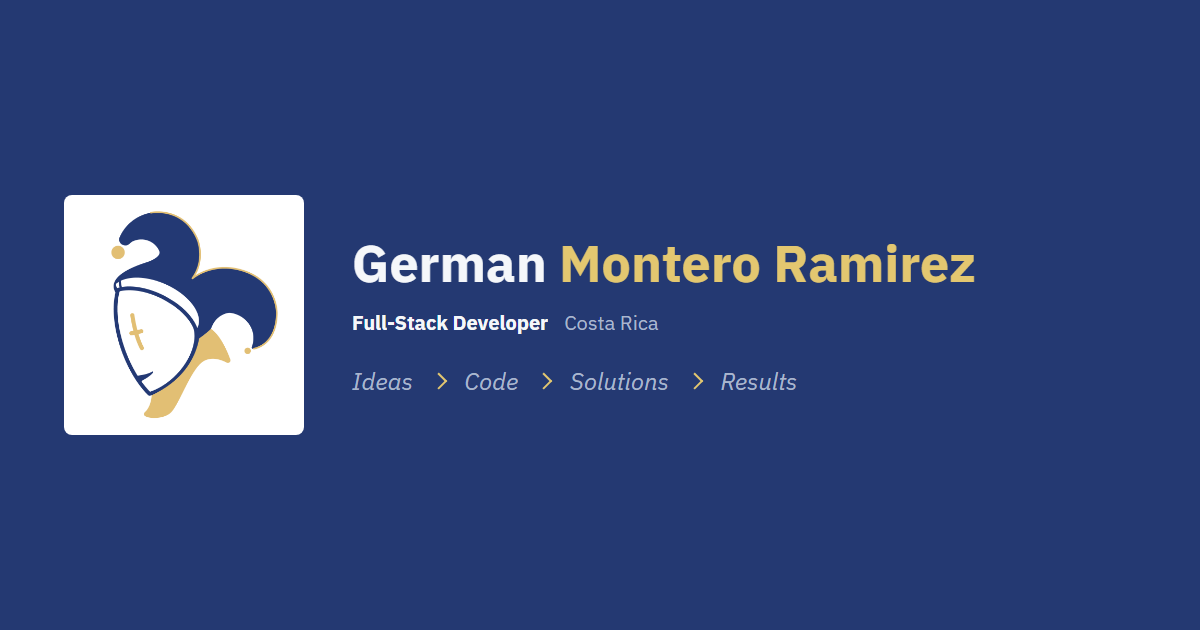
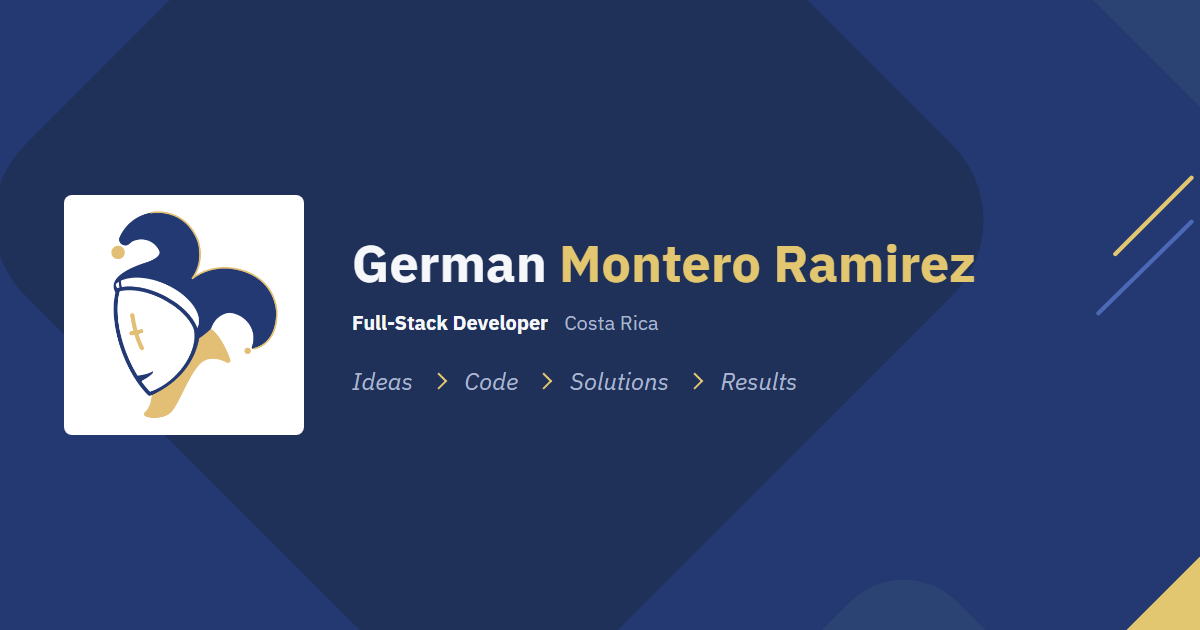
feat(og-cover): the hero band behind the social cards (spec 036)
The generator imports the hero's shape definition and draws it behind the
avatar and the text, each --band-* alias resolved to its dark value through
the dark sheet. Anchored to the right edge (xMaxYMid), since the card's 1.9:1
would otherwise crop away the gold tile and the diagonals. The cards' text
clears 4.5:1 over the shapes, measured pixel by pixel through the shared check;
both PNGs regenerated, two runs byte-identical.

diff --git a/scripts/og-cover.ts b/scripts/og-cover.ts
@@ -10,6 +10,7 @@ import path from 'node:path';
 import { fileURLToPath } from 'node:url';
 
 import { ABOUT } from '../src/data/about.ts';
+import { HERO_SHAPES, HERO_BOX, TILE_RADIUS } from '../src/data/heroShapes.ts';
 
 /** The card's own padding. The sheet's spacing scale has no step for a 1200px
  *  canvas, and a token invented for one file would be a second source. */
@@ -49,6 +50,8 @@ export interface Readings {
     tokens: Record<string, string | undefined>;
     /** The dark theme's tokens the card draws, verbatim from `themes/dark.css`, same contract. */
     darkTokens: Record<string, string | undefined>;
+    /** The hero band's tokens (spec 036), each alias resolved to its dark value. */
+    band: Record<string, string | undefined>;
     /** Root-absolute paths the font sheet names, read from it and not listed here. */
     fonts: string[];
     /**
@@ -234,10 +237,19 @@ export function readTokens(sheetDir: string): Readings {
     const darkTokens: Record<string, string | undefined> = {};
     for (const name of DARK_TOKENS) darkTokens[name] = dark[name];
     const contentWidthPx = 1200 - CARD_PADDING_PX * 2;
+    // A band token is an alias (`var(--neutral-50)`): followed through the dark sheet, then the base.
+    const resolve = (name: string): string | undefined => {
+        let v = dark[name] ?? sheet[name];
+        for (let m; v && (m = v.match(/^var\((--[\w-]+)\)$/)); ) v = dark[m[1]] ?? sheet[m[1]];
+        return v;
+    };
+    const band: Record<string, string | undefined> = {};
+    for (const shape of HERO_SHAPES) { const name = 'side' in shape ? shape.fill : shape.stroke; band[name] = resolve(name); }
 
     return {
         tokens,
         darkTokens,
+        band,
         fonts,
         // The names stay here: this is the only place that knows which value is
         // drawn over which, so a caller cannot pair two colours the card never
@@ -352,6 +364,11 @@ export function cardHtml(readings: Readings, phrases: string[], fitSizePx: numbe
         })
         .join('\n');
     const family = content.family ? ` <span class="family">${escapeHtml(content.family)}</span>` : '';
+    // Anchored right (xMaxYMid): the card is 1.9:1 against the band's 2.69:1, and the right edge
+    // carries the gold tile and the diagonals (spec 036).
+    const band = HERO_SHAPES.map((sh) => 'side' in sh
+        ? `<rect x="${sh.cx - sh.side / 2}" y="${sh.cy - sh.side / 2}" width="${sh.side}" height="${sh.side}" rx="${sh.side * TILE_RADIUS}" transform="rotate(45 ${sh.cx} ${sh.cy})" fill="${readings.band[sh.fill]}"/>`
+        : `<line x1="${sh.from[0]}" y1="${sh.from[1]}" x2="${sh.to[0]}" y2="${sh.to[1]}" stroke="${readings.band[sh.stroke]}" stroke-width="5" stroke-linecap="round"/>`).join('');
 
     return `<!doctype html>
 <html>
@@ -359,7 +376,10 @@ export function cardHtml(readings: Readings, phrases: string[], fitSizePx: numbe
 <meta charset="utf-8">
 <style>
 ${fontFaces}
+.band { position: absolute; inset: 0; width: 100%; height: 100%; }
+.avatar, .text { position: relative; }
 body {
+    position: relative;
     margin: 0;
     width: ${geometry.widthPx}px;
     height: ${geometry.heightPx}px;
@@ -423,6 +443,7 @@ body {
 </style>
 </head>
 <body>
+<svg class="band" viewBox="0 0 ${HERO_BOX.width} ${HERO_BOX.height}" preserveAspectRatio="xMaxYMid slice" aria-hidden="true">${band}</svg>
 <img class="avatar" src="${avatarDataUrl}" alt="">
 <div class="text">
 <h1 class="name"><span class="given">${escapeHtml(content.given)}</span>${family}</h1>
@@ -435,8 +456,8 @@ body {
 
 /** Validate that every required token is present and non-empty (state 4). */
 function validateTokens(readings: Readings): void {
-    for (const name of [...DRAWN_TOKENS, ...DARK_TOKENS]) {
-        const value = readings.tokens[name] ?? readings.darkTokens[name];
+    for (const name of [...DRAWN_TOKENS, ...DARK_TOKENS, ...Object.keys(readings.band)]) {
+        const value = readings.tokens[name] ?? readings.darkTokens[name] ?? readings.band[name];
         if (typeof value !== 'string' || value.trim() === '') {
             throw new Error(`Required token ${name} is missing or empty in 00-tokens.css or themes/dark.css`);
         }

diff --git a/e2e/og-cover-layout.spec.ts b/e2e/og-cover-layout.spec.ts
@@ -2,6 +2,7 @@ import { test, expect } from '@playwright/test';
 import fs from 'fs';
 import path from 'path';
 import { E2E_URL } from './helpers/server';
+import { worstOverBackground } from './helpers/pixels';
 import { readTokens, cardHtml, phrasesFor, cardLocales } from '../scripts/og-cover.ts';
 
 // Spec 033: the social card laid out like the hero (RF-1, RF-2, RF-4), checked on the generator's
@@ -51,6 +52,17 @@ for (const locale of cardLocales(LOCALES_DIR)) {
         // AGENTS: IBM Plex Sans, never the fallback (every card before spec 033 drew in Segoe UI).
         if (!r.fonts.includes('normal loaded') || !r.fonts.includes('italic loaded')) offenders.push(`fonts: ${r.fonts.join(', ')}`);
         if (r.phrases.length !== 4 || r.phrases.some((s) => s !== 'italic')) offenders.push(`RF-4: phrases ${JSON.stringify(r.phrases)}`);
+        expect(offenders, offenders.join('\n')).toEqual([]);
+    });
+
+    test(`card text clears 4.5:1 over the band — ${locale} (spec 036 RF-4)`, async ({ page }) => {
+        await page.setViewportSize({ width: readings.geometry.widthPx, height: readings.geometry.heightPx });
[1 lines of base64/hex data omitted]
+        await page.setContent(cardHtml(readings, phrasesFor(locale, LOCALES_DIR), readings.type.baseSizePx, PUBLIC, avatar), { waitUntil: 'load' });
+        await page.evaluate(() => document.fonts.ready);
+        const targets = ['.given', '.family', '.role', '.location', '.phrases li'].map((sel) => ({ sel, kind: 'text' as const, floor: 4.5 }));
+        const offenders = (await worstOverBackground(page, targets, '.text, .avatar', 'body')).filter((w) => w.ratio < w.floor)
+            .map((w) => `RF-4: ${w.sel} ${w.fg} on ${w.at} is ${w.ratio.toFixed(2)}:1`);
         expect(offenders, offenders.join('\n')).toEqual([]);
     });
 

diff --git a/tests/seo.test.ts b/tests/seo.test.ts
@@ -1114,3 +1114,26 @@ describe('the hero band shapes (spec 036 RF-2)', () => {
     });
 });
 
+describe('the og-cover band (spec 036 RF-4)', () => {
+    it('imports the hero shape definition', () => {
+        const src = stripComments(fs.readFileSync(GENERATOR, 'utf-8'));
+        expect(src).toMatch(/import\s*\{[^}]*\bHERO_SHAPES\b[^}]*\}\s*from\s*['"][^'"]*data\/heroShapes\.ts['"]/);
+    });
+
+    it('draws one shape per entry, in the dark theme values', async () => {
+        const { HERO_SHAPES } = await import('../src/data/heroShapes');
+        const dark = sheetTokens(path.join(SHEET_DIR, 'themes', 'dark.css'));
+        const base = sheetTokens();
+        const resolve = (name: string): string | undefined => {
+            let v = dark[name] ?? base[name];
+            for (let m; v && (m = v.match(/^var\((--[\w-]+)\)$/)); ) v = dark[m[1]] ?? base[m[1]];
+            return v;
+        };
+        const html = await card('es');
+        const svg = html.match(/<svg class="band"[\s\S]*?<\/svg>/)?.[0] ?? '';
+        const shapes = [...svg.matchAll(/<(rect|line)\b[^>]*>/g)].map((m) => m[0].match(/(?:fill|stroke)="([^"]+)"/)?.[1]);
+        expect(shapes, 'the card holds no band, or a different number of shapes').toHaveLength(HERO_SHAPES.length);
+        const want = HERO_SHAPES.map((s: any) => resolve(s.fill ?? s.stroke));
+        expect(shapes).toEqual(want);
+    });
+});
